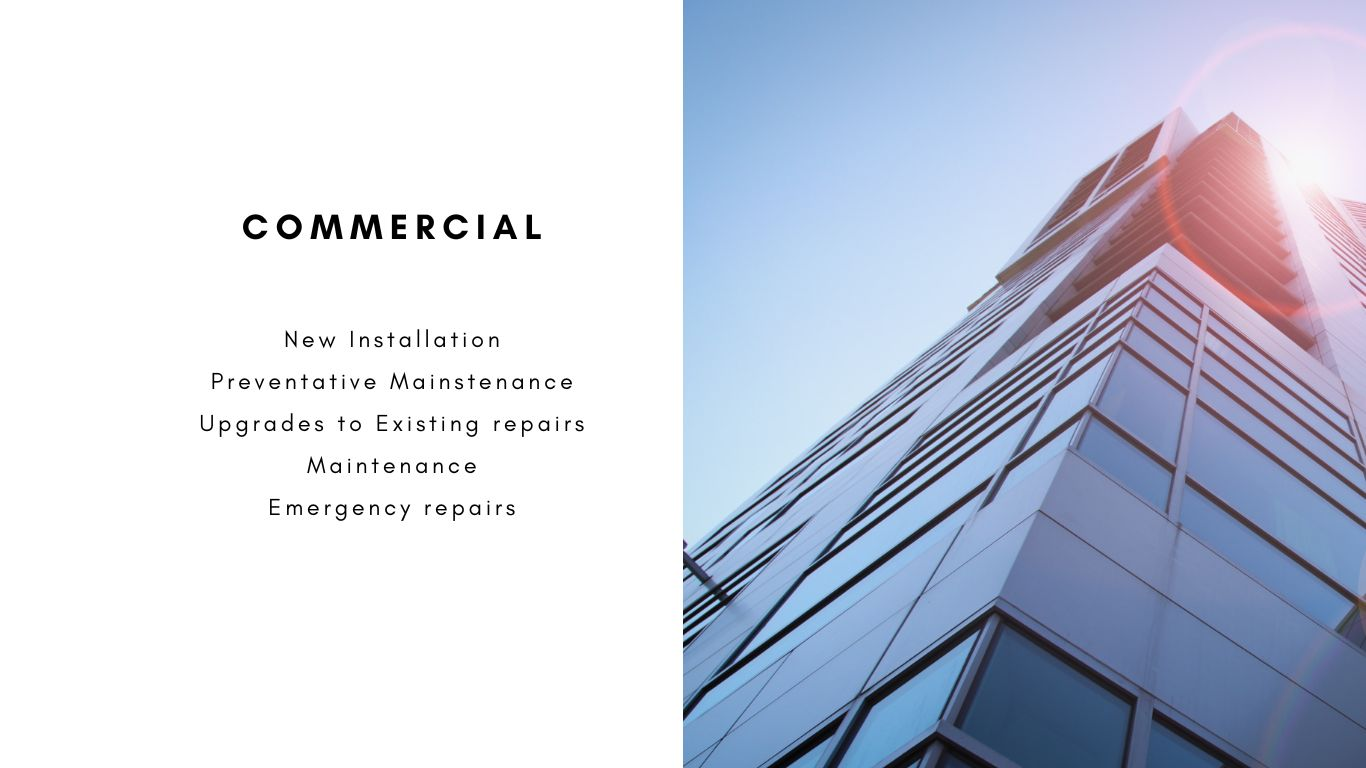
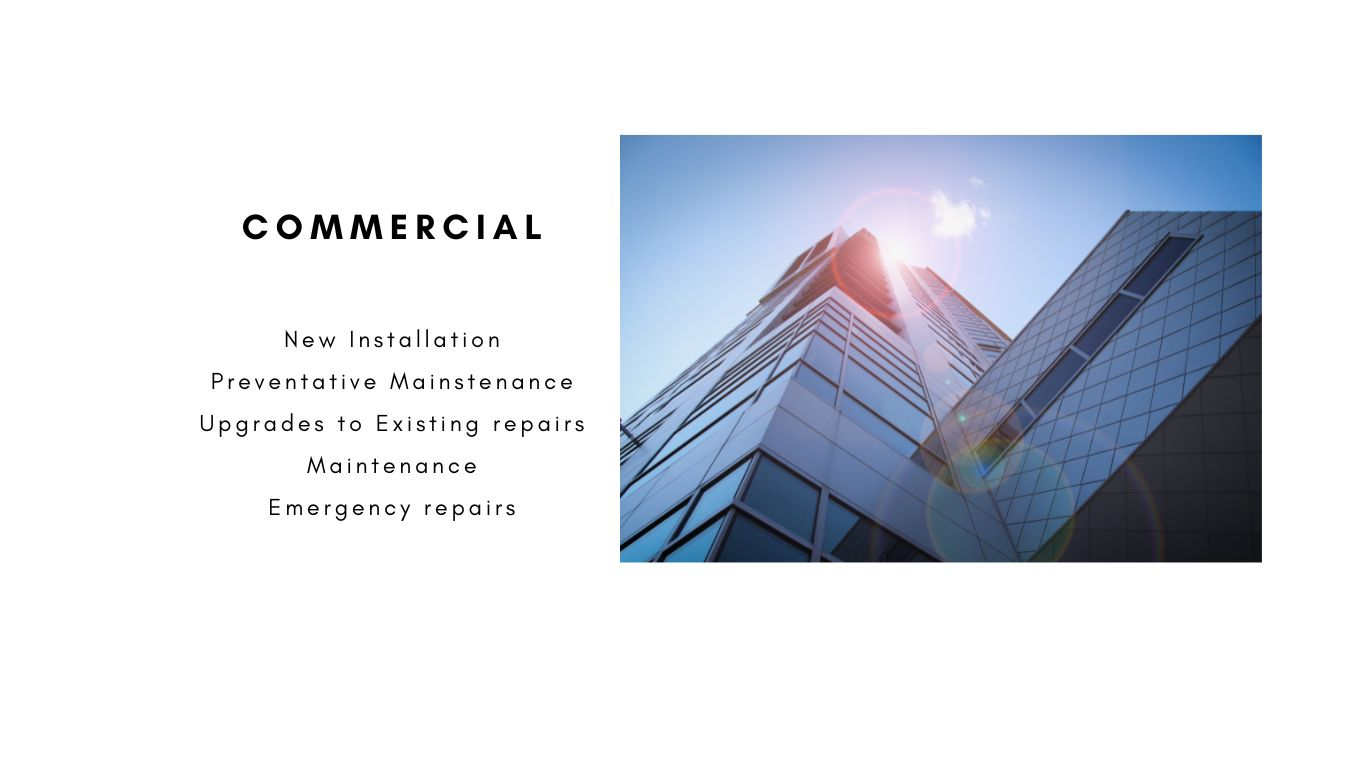
Add files via upload

diff --git a/style.css b/style.css
@@ -42,7 +42,7 @@ background-repeat: no-repeat;
 .bgggg{
   min-height: 100vh;
     width: 100%;
-    background-image: url(image/Commeercial\ \(4\).jpg); 
+    background-image: url(image/ab\ \(3\).jpg); 
      background-position: center;
     background-size: cover;
     
@@ -435,7 +435,7 @@ h4{
     padding-bottom: 50px;
   }
   .bggg{
-    background-image: url(image/mobile\ \(1\).jpg); 
+    background-image: url(image/mobile\ \(3\).jpg); 
   }
   .bgggg{
     background-image: url(image/mobile.jpg); 
